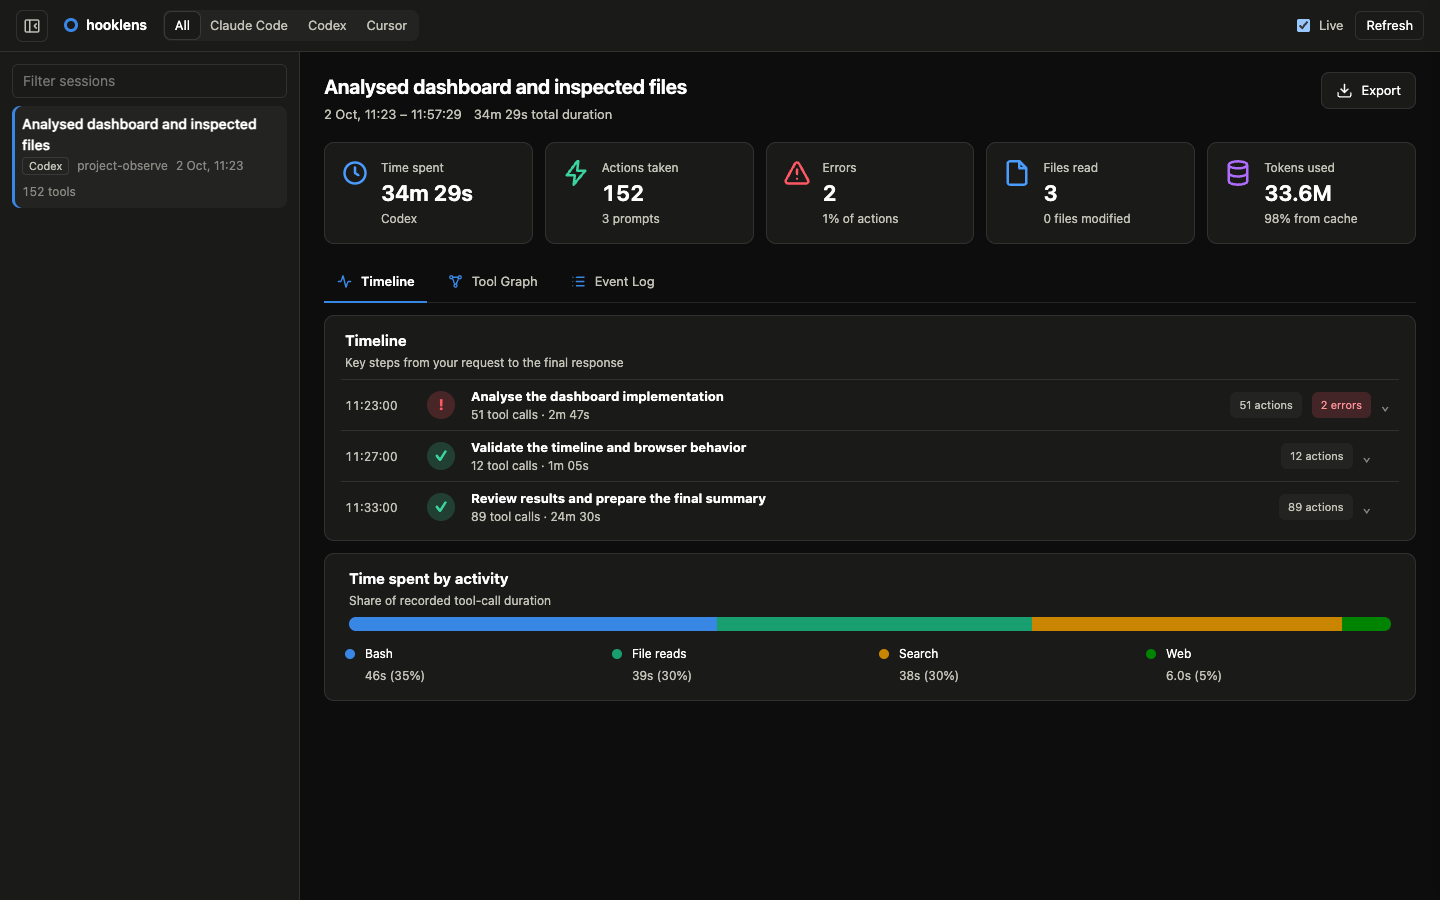
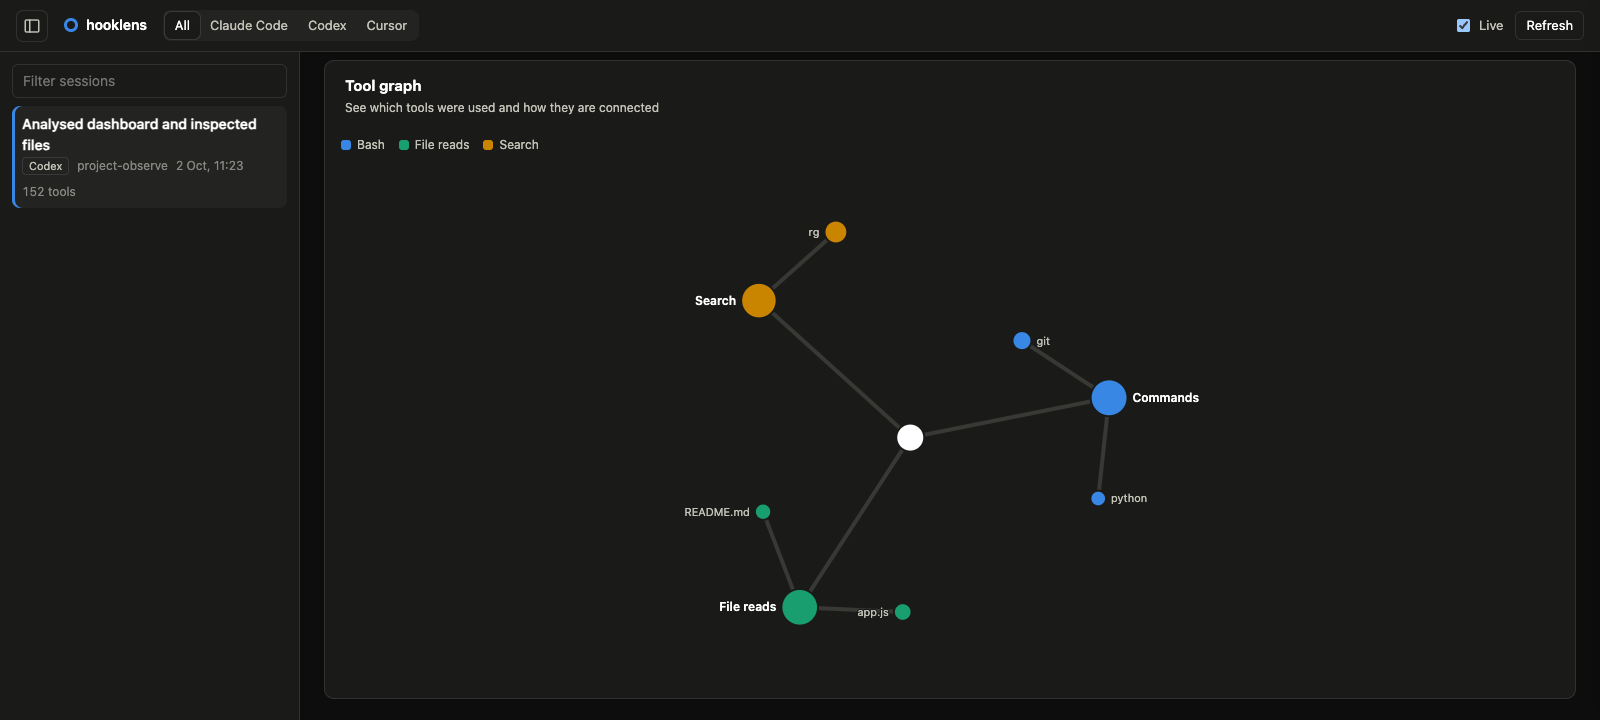
Focus tool graph when selected

diff --git a/src/hooklens/ui/app.js b/src/hooklens/ui/app.js
@@ -69,8 +69,7 @@ function iconSvg(name, size = 24) {
     timeline: [s("path", { d: "M3 12h4l3-8 4 16 3-8h4" })],
     graph: [s("circle", { cx: 6, cy: 6, r: 2 }), s("circle", { cx: 18, cy: 6, r: 2 }), s("circle", { cx: 12, cy: 18, r: 2 }), s("path", { d: "m7.7 7.1 2.9 8m5.7-8-2.9 8M8 6h8" })],
     events: [s("path", { d: "M9 6h11M9 12h11M9 18h11M4 6h.01M4 12h.01M4 18h.01" })],
-    sidebarClose: [s("rect", { x: 3, y: 4, width: 18, height: 16, rx: 2 }), s("path", { d: "M9 4v16m9-11-3 3 3 3" })],
-    sidebarOpen: [s("rect", { x: 3, y: 4, width: 18, height: 16, rx: 2 }), s("path", { d: "M9 4v16m6-11 3 3-3 3" })],
+    sidebar: [s("rect", { x: 3, y: 4, width: 18, height: 16, rx: 2 }), s("path", { d: "M9 4v16" })],
   }[name] || [];
   return s("svg", { class: "icon-svg", width: size, height: size, viewBox: "0 0 24 24", fill: "none",
     stroke: "currentColor", "stroke-width": 2, "stroke-linecap": "round", "stroke-linejoin": "round", "aria-hidden": "true" }, ...shape);
@@ -259,7 +258,11 @@ function renderMain() {
   const tabBar = h("div", { class: "view-tabs", role: "tablist", "aria-label": "Session views" },
     ...tabs.map(([id, label, icon]) => h("button", { class: "view-tab", type: "button", role: "tab",
       id: `tab-${id}`, "aria-controls": "session-view-panel", "aria-selected": String(state.tab === id),
-      tabindex: state.tab === id ? "0" : "-1", onclick: () => { state.tab = id; renderMain(); } },
+      tabindex: state.tab === id ? "0" : "-1", onclick: () => {
+        state.tab = id;
+        renderMain();
+        if (id === "graph") requestAnimationFrame(focusGraphPanel);
+      } },
     iconSvg(icon, 17), h("span", {}, label))));
   const viewPanel = h("div", { id: "session-view-panel", class: "view-panel", role: "tabpanel",
     "aria-labelledby": `tab-${state.tab}` });
@@ -299,6 +302,19 @@ function renderMain() {
     tabBar, viewPanel,
   );
   if (graphHost) renderGraph(graphHost, state.data.graph);
+}
+
+function focusGraphPanel() {
+  const main = document.getElementById("main");
+  const graphCard = main.querySelector(".tab-card");
+  if (!graphCard) return;
+  const mainRect = main.getBoundingClientRect();
+  const cardRect = graphCard.getBoundingClientRect();
+  const targetTop = main.scrollTop + cardRect.top - mainRect.top - main.clientTop - 8;
+  main.scrollTo({
+    top: Math.max(0, targetTop),
+    behavior: window.matchMedia("(prefers-reduced-motion: reduce)").matches ? "instant" : "smooth",
+  });
 }
 
 function sessionSteps(events) {
@@ -364,7 +380,7 @@ const sidebarToggle = document.getElementById("sidebar-toggle");
 function updateSidebarToggle() {
   const collapsed = document.body.classList.contains("sidebar-collapsed");
   const label = collapsed ? "Show sessions sidebar" : "Hide sessions sidebar";
-  sidebarToggle.replaceChildren(iconSvg(collapsed ? "sidebarOpen" : "sidebarClose", 18));
+  sidebarToggle.replaceChildren(iconSvg("sidebar", 18));
   sidebarToggle.setAttribute("aria-expanded", String(!collapsed));
   sidebarToggle.setAttribute("aria-label", label);
   sidebarToggle.title = label;

diff --git a/src/hooklens/ui/style.css b/src/hooklens/ui/style.css
@@ -96,9 +96,9 @@ button { font: inherit; color: inherit; }
 .btn:hover { background: var(--surface-2); }
 .input { width: 100%; border: 1px solid var(--border); background: var(--surface); border-radius: 6px; padding: 6px 10px; font: inherit; color: inherit; }
 
-.layout { display: grid; grid-template-columns: 300px minmax(0, 1fr); height: calc(100% - 52px); transition: grid-template-columns .18s ease; }
-.sidebar { border-right: 1px solid var(--border); background: var(--surface); display: flex; flex-direction: column; gap: 8px; padding: 12px; overflow: hidden; }
-body.sidebar-collapsed .layout { grid-template-columns: 0 minmax(0, 1fr); }
+.layout { display: grid; grid-template-columns: 300px minmax(0, 1fr); height: calc(100% - 52px); transition: grid-template-columns .18s ease; min-width: 0; }
+.sidebar { min-width: 0; border-right: 1px solid var(--border); background: var(--surface); display: flex; flex-direction: column; gap: 8px; padding: 12px; overflow: hidden; }
+body.sidebar-collapsed .layout { grid-template-columns: minmax(0, 1fr); }
 body.sidebar-collapsed .sidebar { display: none; }
 .session-list { list-style: none; margin: 0; padding: 0; overflow-y: auto; flex: 1; }
 .session-list li { padding: 8px 10px; border-radius: 8px; cursor: pointer; margin-bottom: 2px; }
@@ -108,7 +108,7 @@ body.sidebar-collapsed .sidebar { display: none; }
 .s-meta { color: var(--muted); font-size: 12px; display: flex; gap: 8px; flex-wrap: wrap; margin-top: 2px; }
 .badge { font-size: 11px; padding: 0 6px; border-radius: 4px; background: var(--surface-2); color: var(--ink-2); border: 1px solid var(--border); }
 
-.main { overflow-y: auto; padding: 20px 24px 48px; }
+.main { min-width: 0; overflow-y: auto; padding: 20px 24px 48px; }
 .empty { color: var(--muted); padding: 48px 0; text-align: center; }
 .empty code { background: var(--surface-2); padding: 1px 6px; border-radius: 4px; }
 
@@ -258,7 +258,7 @@ pre { background: var(--surface-2); border-radius: 8px; padding: 10px 12px; marg
   .topbar { gap: 8px; }
   .layout { grid-template-columns: 1fr; height: auto; }
   .sidebar { border-right: 0; border-bottom: 1px solid var(--border); max-height: 40vh; }
-  body.sidebar-collapsed .layout { grid-template-columns: 1fr; }
+  body.sidebar-collapsed .layout { grid-template-columns: minmax(0, 1fr); }
   .main { padding: 16px; overflow: visible; }
   .live { display: none; }
   .overview-tiles { grid-template-columns: repeat(2, minmax(0, 1fr)); }

diff --git a/README.md b/README.md
@@ -12,7 +12,7 @@ On a timeline and a graph, on your machine.
 [![Python](https://img.shields.io/badge/python-3.11%2B-blue)](pyproject.toml)
 [![License](https://img.shields.io/badge/license-Apache--2.0-blue)](LICENSE)
 
-![Hooklens session dashboard](assets/timeline.png)
+![Hooklens session dashboard with the Tool Graph in focus](assets/timeline.png)
 
 </div>
 
